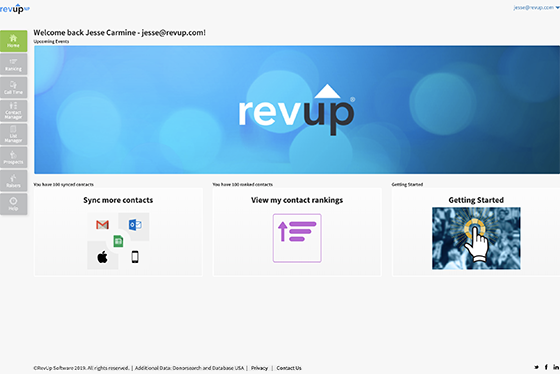
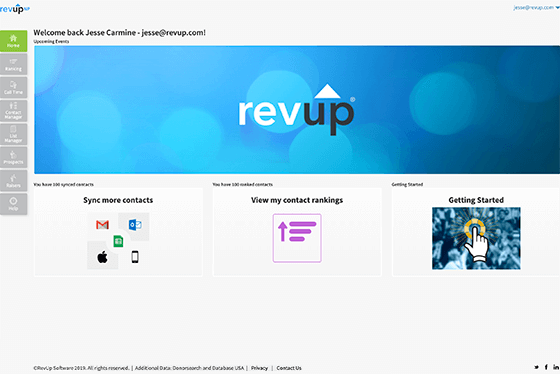
Compress images.

diff --git a/index.php b/index.php
@@ -104,7 +104,7 @@
               <h2>
                 Hello, I'm Jesse Carmine and welcome to&nbsp;my&nbsp;portfolio,<br class="desktop"> I’m a Web Developer from Portland, OR U.S.A.
               </h2>
-              <p>Graphic design and creating innovative web experiences have always been passions of mine. With over 4 years of professional web development experience, I have completed projects for clients across the United States. This experience has established my fluency in the most popular development languages, perfected my project management skills, and honed the attention to detail that is required to create stunning and pixel-perfect websites - websites that will not only impress your visitors, but also entice them to engage with your cause or organization. Whether you desire a WordPress site or a completely custom, responsive, interactive experience driven by JavaScript, I can make it&nbsp;happen.</p>
+              <p>Graphic design and creating innovative web experiences have always been passions of mine. With over 6 years of professional web development experience, I have completed projects for clients across the United States. This experience has established my fluency in the most popular development languages, perfected my project management skills, and honed the attention to detail that is required to create stunning and pixel-perfect websites - websites that will not only impress your visitors, but also entice them to engage with your cause or organization. Whether you desire a WordPress site or a completely custom, responsive, interactive experience driven by JavaScript, I can make it&nbsp;happen.</p>
               <p>Need more detail? Click below to download my resume.</p>
               <div>
                 <a href="resources/resume_for_jesse_carmine.pdf?ver=1.5" target="_blank">
@@ -171,7 +171,7 @@
                       </div>
                       <div class="contentRight">
                         <h2>RevUp</h2>
-                        <p>RevUp is a SaaS application created to supercharge the fundraising efforts of political campaigns, nonprofits, and academic insitutions.</p>
+                        <p>RevUp is a SaaS application that was created to supercharge the fundraising efforts of political campaigns, nonprofits, and academic insitutions.</p>
                         <h3>Responsibilities included:</h3>
                         <ul>
                           <li>Built the front-end for RevUp’s Nonprofit product from the ground up utilizing React, Redux, Immutable.js, Enzyme/Jest, and Webpack.</li>
